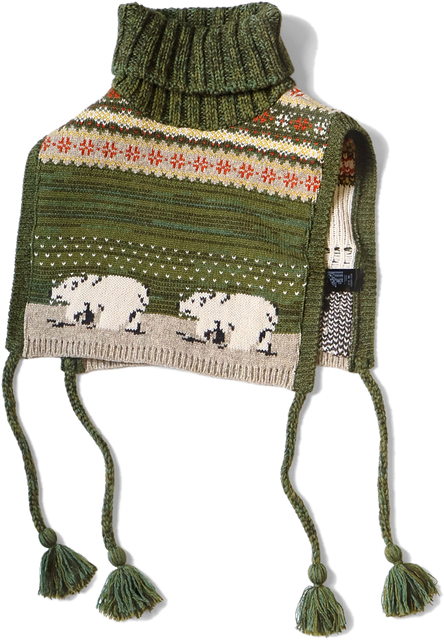
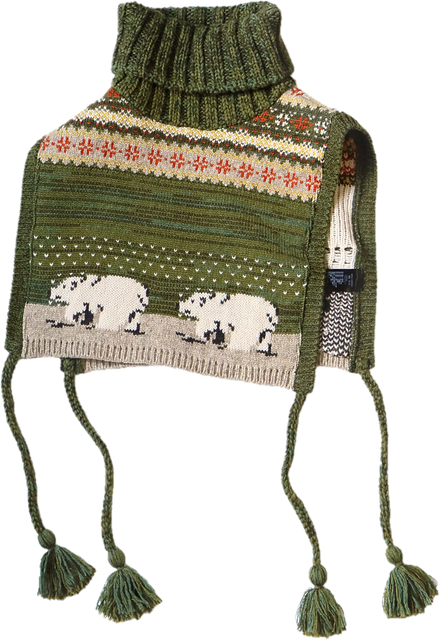
Tighten neck warmer cutout (remove shadow halo)

Changed region(s): [[0.0, 0.0, 1.0, 1.0], [0.1773, 0.4688, 0.2068, 0.5]]

diff --git a/index.html b/index.html
@@ -227,7 +227,7 @@ var ITEMS = [
     views: [{ img: 'assets/hat.png', full: 'assets/hat-full.jpg', ar: 0.792 }] },
   { bg: '#C2412D', ink: '#FFFDF6', nameJa: 'ノルディック柄ニットネックウォーマー', capJa: 'ネックウォーマー', nameEn: 'Nordic knit neck warmer', size: '着丈 38 · 幅 36', price: '¥87,780', city: 'BOZEMAN MT', date: 'FEB 27', year: '2026',
     meas: [['着丈', '38 cm'], ['幅', '36 cm'], ['首丈', '14 cm'], ['ひも', '40 cm']],
-    views: [{ img: 'assets/neck.png', full: 'assets/neck-full.jpg', ar: 1.441 }] }
+    views: [{ img: 'assets/neck.png', full: 'assets/neck-full.jpg', ar: 1.455 }] }
 ];
 var ANG = [-39, -26, -13, 0, 13, 26, 39];
 var MID = (ITEMS.length - 1) / 2;
